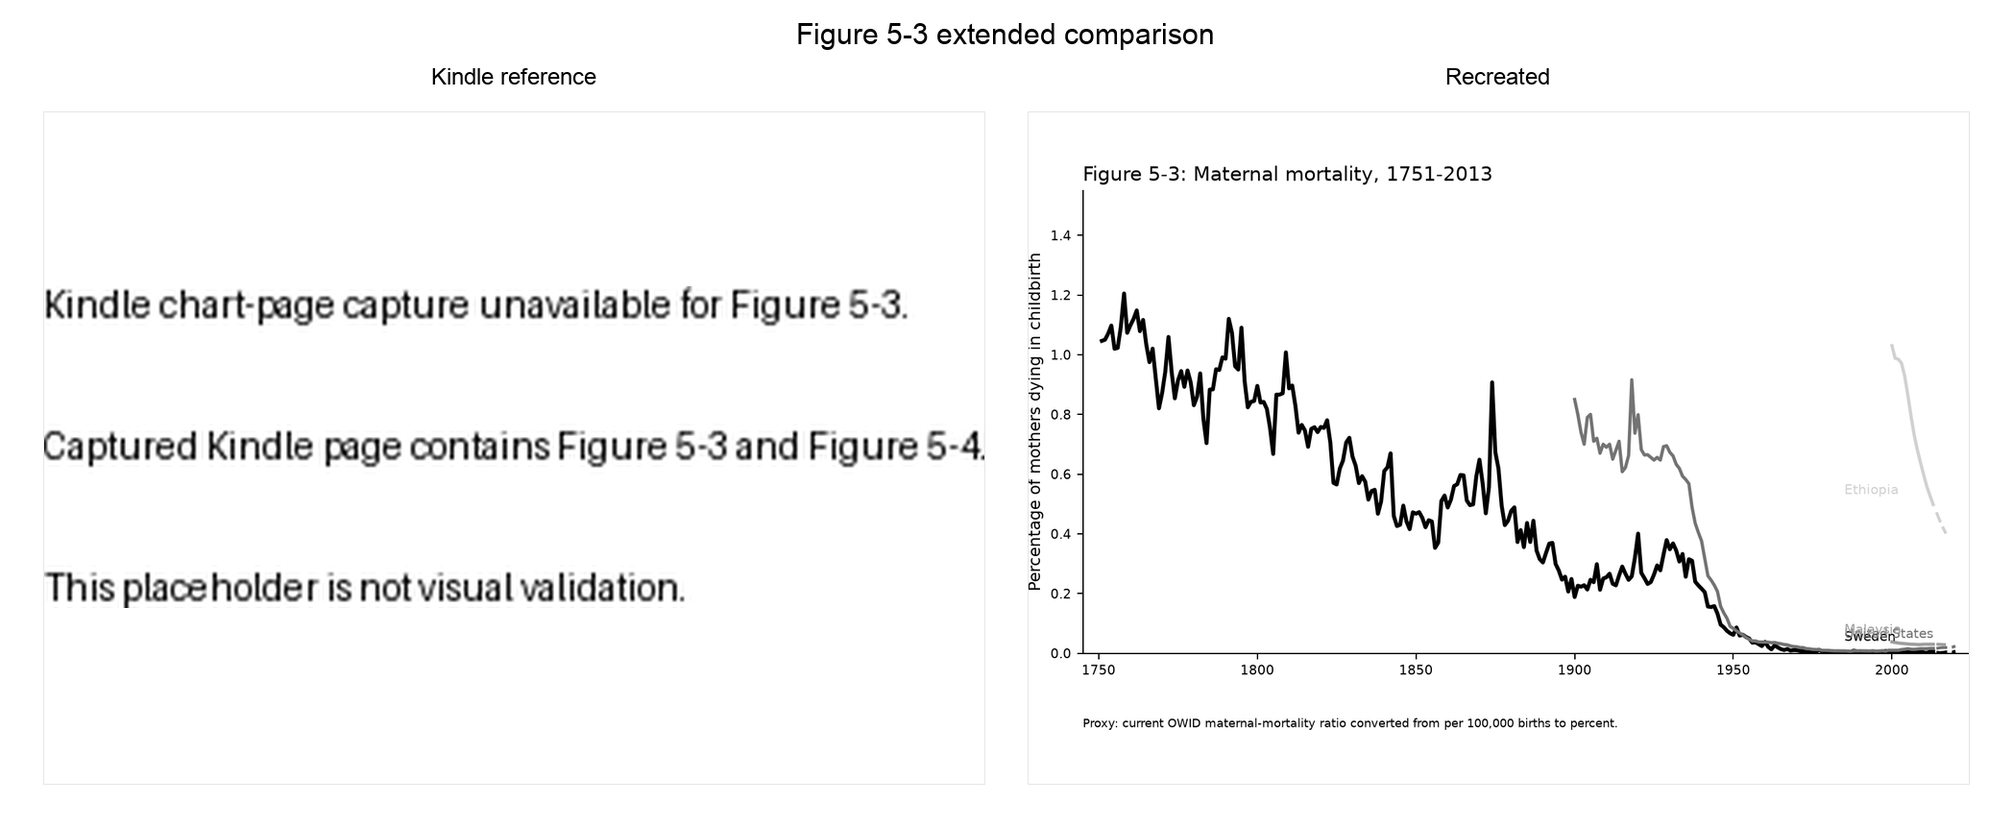
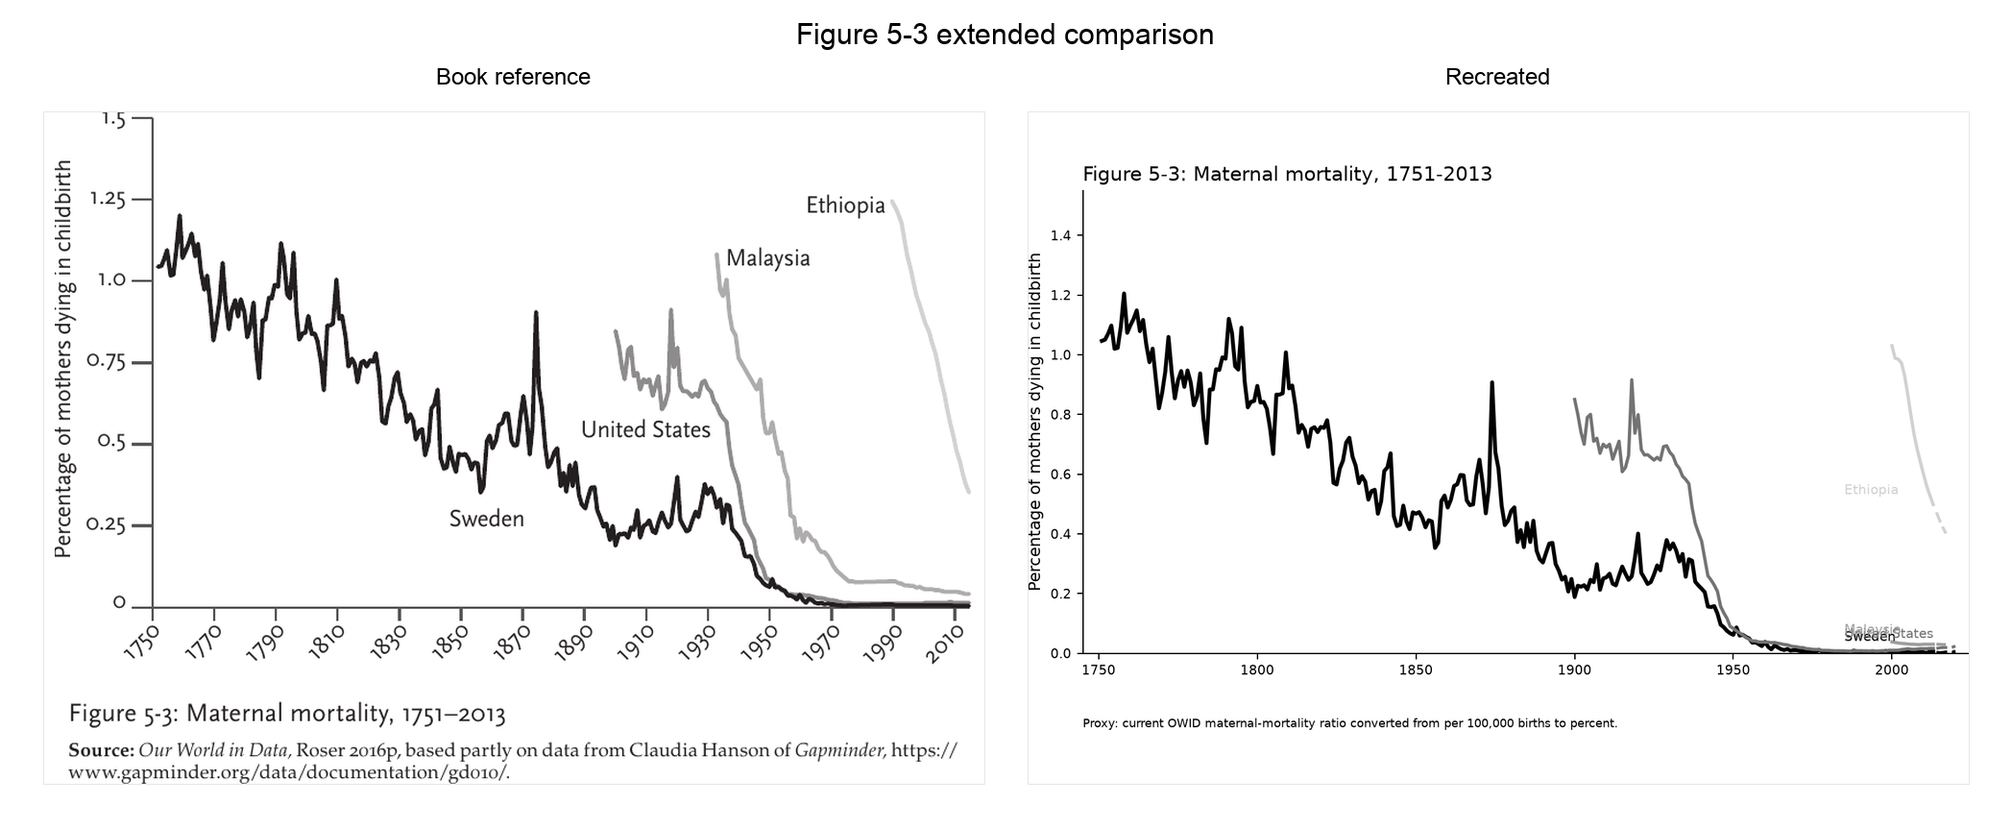
Refresh Track A side-by-side references from supplemental PDF

diff --git a/scripts/reconstruct_track_a_health_nutrition.py b/scripts/reconstruct_track_a_health_nutrition.py
@@ -15,6 +15,7 @@ from PIL import Image, ImageChops, ImageDraw, ImageFont, ImageOps
 ROOT = Path(__file__).resolve().parents[1]
 OWID = Path("/Users/alfred/Documents/MIsc/enlightenment_now_poc/data/repositories/owid-datasets/datasets")
 TMP_KINDLE = ROOT / "tmp/track_a_kindle"
+TMP_PDF = ROOT / "tmp/track_a_pdf_pages"
 TODAY = date.today().isoformat()
 
 
@@ -118,7 +119,7 @@ def side_by_side(reference: Path, recreated: Path, output: Path, title: str) -> 
     left_x = margin
     right_x = margin + panel_w + gap
     label_y = title_h + 8
-    draw.text((left_x + panel_w // 2, label_y), "Kindle reference", fill="black", anchor="ma", font=label_font)
+    draw.text((left_x + panel_w // 2, label_y), "Book reference", fill="black", anchor="ma", font=label_font)
     draw.text((right_x + panel_w // 2, label_y), "Recreated", fill="black", anchor="ma", font=label_font)
     paste_fit(ref, left_x, title_h + header_h)
     paste_fit(rec, right_x, title_h + header_h)
@@ -130,71 +131,76 @@ FIGURES = {
     "5-3": {
         "title": "Maternal mortality, 1751-2013",
         "chapter": "5",
-        "book_page": "Kindle page 57 search result",
+        "book_page": "Supplemental PDF page 3; Kindle page previously inspected",
         "claim": "Maternal mortality declined sharply in representative countries.",
         "citation": "Our World in Data, Roser 2016p, based partly on data from Claudia Hanson of Gapminder.",
         "source_status": "updated_equivalent",
         "status": "partial_match",
         "confidence": 0.70,
         "validation": "acceptable",
-        "kindle": TMP_KINDLE / "page_5_3.png",
-        "crop": (285, 360, 946, 830),
+        "reference_source": "Supplemental PDF page 3 crop",
+        "kindle": TMP_PDF / "page-03.png",
+        "crop": (145, 835, 1000, 1535),
         "dataset": "Maternal Mortality Ratio (Gapminder (2010), WHO (2019) and OECD (2022))",
     },
     "5-4": {
         "title": "Life expectancy, UK, 1701-2013",
         "chapter": "5",
-        "book_page": "Kindle page 57 chart capture",
+        "book_page": "Supplemental PDF page 4; Kindle page previously inspected",
         "claim": "UK life expectancy improved at birth and across older ages.",
-        "citation": "Kindle chart inspected; full source line not fully visible in the captured page. Likely OWID/HMD-derived age-specific life expectancy source.",
+        "citation": "Our World in Data, Roser 2016n. Data before 1845 are for England and Wales and come from OECD Clio Infra, van Zanden et al. 2014. Data from 1845 on are for mid-decade years only, and come from the Human Mortality Database.",
         "source_status": "needs_targeted_source_recovery",
         "status": "needs_targeted_source_recovery",
         "confidence": 0.40,
         "validation": "poor",
-        "kindle": TMP_KINDLE / "page_5_3.png",
-        "crop": (975, 438, 1637, 865),
+        "reference_source": "Supplemental PDF page 4 crop",
+        "kindle": TMP_PDF / "page-04.png",
+        "crop": (110, 125, 1000, 820),
         "dataset": "partial HMD/OWID age-specific life-expectancy sources",
     },
     "6-1": {
         "title": "Childhood deaths from infectious disease, 2000-2013",
         "chapter": "6",
-        "book_page": "Kindle source not successfully captured during Track A",
+        "book_page": "Supplemental PDF page 4; Kindle chart page not captured during Track A",
         "claim": "Childhood deaths from major infectious diseases fell between 2000 and 2013.",
         "citation": "Child Health Epidemiology Reference Group of the World Health Organization; Liu et al. 2014, supplementary appendix.",
         "source_status": "blocked_external_source",
         "status": "blocked_external_source",
         "confidence": 0.30,
-        "validation": "blocked",
-        "kindle": None,
-        "crop": None,
+        "validation": "poor",
+        "reference_source": "Supplemental PDF page 4 crop",
+        "kindle": TMP_PDF / "page-04.png",
+        "crop": (60, 815, 1000, 1540),
         "dataset": "IHME 2017 causes of child mortality proxy; cited Liu et al. appendix not recovered",
     },
     "7-1": {
         "title": "Calories, 1700-2013",
         "chapter": "7",
-        "book_page": "Kindle page 70 search result",
+        "book_page": "Supplemental PDF page 5; Kindle page previously inspected",
         "claim": "Average calorie availability rose in developed and developing regions.",
         "citation": "United States, England, and France: Our World in Data, Roser 2016d, based on Fogel 2004. China, India, and World: FAO.",
         "source_status": "updated_equivalent",
         "status": "partial_match",
         "confidence": 0.76,
         "validation": "acceptable",
-        "kindle": TMP_KINDLE / "page_7_1.png",
-        "crop": (285, 147, 946, 592),
+        "reference_source": "Supplemental PDF page 5 crop",
+        "kindle": TMP_PDF / "page-05.png",
+        "crop": (135, 130, 1035, 780),
         "dataset": "Daily supply of calories per person (OWID based on UN FAO & historical sources)",
     },
     "7-2": {
         "title": "Childhood stunting, 1966-2014",
         "chapter": "7",
-        "book_page": "Kindle page 70 chart capture",
+        "book_page": "Supplemental PDF page 5; Kindle page previously inspected",
         "claim": "Childhood stunting fell in several developing countries.",
         "citation": "Our World in Data, Roser 2016j, based on WHO Nutrition Landscape Information System.",
         "source_status": "partial_match",
         "status": "partial_match",
         "confidence": 0.55,
         "validation": "acceptable",
-        "kindle": TMP_KINDLE / "page_7_1.png",
-        "crop": (975, 147, 1637, 625),
+        "reference_source": "Supplemental PDF page 5 crop",
+        "kindle": TMP_PDF / "page-05.png",
+        "crop": (135, 845, 995, 1550),
         "dataset": "World Bank stunting prevalence proxy; exact OWID/WHO NLIS vintage not recovered",
     },
 }
@@ -333,7 +339,7 @@ def plot_6_1():
     ext_plot = b / "plots/extended/figure_6_1_extended_reconstruction.png"
     draw(book_plot)
     draw(ext_plot, True)
-    ref = crop_or_placeholder(fig_id, None, None, "Kindle search/navigation did not successfully capture the Figure 6-1 chart page in this time-boxed pass.")
+    ref = crop_or_placeholder(fig_id, FIGURES[fig_id]["kindle"], FIGURES[fig_id]["crop"], "Supplemental PDF supplies the Figure 6-1 chart reference.")
     side_by_side(ref, book_plot, b / "plots/comparisons/figure_6_1_book_period_comparison.png", "Figure 6-1 book-period comparison")
     side_by_side(ref, ext_plot, b / "plots/comparisons/figure_6_1_extended_comparison.png", "Figure 6-1 extended comparison")
 
@@ -484,7 +490,7 @@ def write_docs(fig_id: str):
         "## Search Queries Attempted\n"
         + "\n".join(f"- {q}" for q in searches)
         + "\n\n## Sources Investigated\n"
-        f"- Kindle: {'accepted for chart reference/source line' if info['kindle'] else 'source-line evidence only; chart capture unresolved'}.\n"
+        f"- Reference image: {info.get('reference_source', 'Kindle chart capture')} accepted for chart reference/source line.\n"
         f"- Dataset used: {info['dataset']}.\n"
         "- Local OWID mirror and current public data were used where available.\n\n"
         "## Remaining Uncertainties\n"
@@ -495,7 +501,7 @@ def write_docs(fig_id: str):
     )
     (b / "provenance/provenance.md").write_text(
         f"# Provenance: Figure {fig_id}\n\n"
-        f"Book figure -> Kindle evidence -> {info['dataset']} -> "
+        f"Book figure -> {info.get('reference_source', 'Kindle evidence')} -> {info['dataset']} -> "
         "`scripts/reconstruct_track_a_health_nutrition.py` -> generated plots.\n\n"
         f"Source note: {info['citation']}\n"
     )
@@ -503,7 +509,7 @@ def write_docs(fig_id: str):
         f"# Anomaly Review: Figure {fig_id}\n\n"
         "## Visible Differences\n"
         "- Styling, typography, label placement, and crop geometry are approximate.\n"
-        + ("- Kindle chart-page reference is missing; placeholder blocks visual validation.\n" if fig_id == "6-1" else "")
+        + ("- Supplemental PDF supplies the chart reference, but the cited Liu et al. appendix remains unrecovered.\n" if fig_id == "6-1" else "")
         + ("- Reconstruction is visibly incomplete because only age-at-birth, age-15, and age-45 proxy series were recovered.\n" if fig_id == "5-4" else "")
         + "\n## Cause Assessment\n"
         f"- Current status: `{info['status']}`.\n"

diff --git a/PROJECT_STATE.md b/PROJECT_STATE.md
@@ -1,6 +1,6 @@
 # Project State
 
-Last update: 2026-06-30 02:55 America/Los_Angeles
+Last update: 2026-06-30 03:25 America/Los_Angeles
 
 Project version: `1.5-track-a-health-nutrition-branch`
 
@@ -49,11 +49,11 @@ this file are all updated. Only then may Codex begin another figure.
 | --- | --- | --- | --- | --- | --- |
 | 5-1 | Life expectancy, 1771-2015 | Reviewed book-period reconstruction; no comparable extension plotted | `verified_reproduction` | High | OWID/Roser 2016n-style historical dataset matches the Kindle source line; the extended artifact is explicitly labeled as no comparable regional extension. |
 | 5-2 | Child mortality, 1751-2013 | Source recovery and discrepancy analysis | `partial_match` | Medium | Remediated to use the current OWID selected child-mortality series in percent units; exact Roser 2016a UN/HMD assembled source remains unresolved. |
-| 5-3 | Maternal mortality, 1751-2013 | Track A time-boxed reconstruction | `partial_match` | Medium | Kindle chart/source captured; current OWID maternal-mortality successor data reproduce the broad concept but exact Roser 2016p vintage is not recovered. |
-| 5-4 | Life expectancy, UK, 1701-2013 | Track A targeted source recovery needed | `needs_targeted_source_recovery` | Low | Kindle chart captured, but exact age-specific HMD/OWID series for ages 1, 5, 10, 20, 30, 40, 50, 60, and 70 were not recovered. |
-| 6-1 | Childhood deaths from infectious disease, 2000-2013 | Track A evidence/source blocked | `blocked_external_source` | Low | Kindle chart-page capture failed during the time-box; IHME proxy generated but cited CHERG/WHO Liu et al. appendix remains unrecovered. |
-| 7-1 | Calories, 1700-2013 | Track A time-boxed reconstruction | `partial_match` | Medium | Kindle chart/source captured; OWID/FAO historical calories dataset gives a plausible reconstruction but exact book-era source styling/vintage is unresolved. |
-| 7-2 | Childhood stunting, 1966-2014 | Track A time-boxed reconstruction | `partial_match` | Medium-low | Kindle chart/source captured; World Bank stunting prevalence proxy used because exact OWID/Roser 2016j WHO NLIS vintage was not recovered. |
+| 5-3 | Maternal mortality, 1751-2013 | Track A time-boxed reconstruction | `partial_match` | Medium | Book reference refreshed from supplemental PDF page 3; current OWID maternal-mortality successor data reproduce the broad concept but exact Roser 2016p vintage is not recovered. |
+| 5-4 | Life expectancy, UK, 1701-2013 | Track A targeted source recovery needed | `needs_targeted_source_recovery` | Low | Book reference/source refreshed from supplemental PDF page 4, but exact age-specific HMD/OWID series for ages 1, 5, 10, 20, 30, 40, 50, 60, and 70 were not recovered. |
+| 6-1 | Childhood deaths from infectious disease, 2000-2013 | Track A source blocked | `blocked_external_source` | Low | Book reference/source refreshed from supplemental PDF page 4; IHME proxy generated but cited CHERG/WHO Liu et al. appendix remains unrecovered. |
+| 7-1 | Calories, 1700-2013 | Track A time-boxed reconstruction | `partial_match` | Medium | Book reference/source refreshed from supplemental PDF page 5; OWID/FAO historical calories dataset gives a plausible reconstruction but exact book-era source styling/vintage is unresolved. |
+| 7-2 | Childhood stunting, 1966-2014 | Track A time-boxed reconstruction | `partial_match` | Medium-low | Book reference/source refreshed from supplemental PDF page 5; World Bank stunting prevalence proxy used because exact OWID/Roser 2016j WHO NLIS vintage was not recovered. |
 | 8-4 | Extreme poverty (proportion), 1820-2015 | Reviewed book-period reconstruction; no comparable extension plotted | `verified_reproduction` | High | OWID historical Bourguignon & Morrison/PovcalNet dataset matches the Kindle source chain; comparison layout was remediated and no comparable World successor extension is plotted. |
 | 10-5 | Oil spills, 1970-2016 | Source recovery and discrepancy analysis | `partial_match` | Medium | Do not label as verified until the exact historical oil-shipped-by-sea series or an exact archival copy is recovered. |
 | 10-6 | Protected areas, 1990-2014 | Verified book-period reconstruction with successor-series extension | `verified_reproduction` | High | Book-period reconstruction accepted; bibliographic cleanup and publication packaging remain. |

diff --git a/reports/track_a_health_nutrition_summary.md b/reports/track_a_health_nutrition_summary.md
@@ -17,7 +17,9 @@ Figures processed:
 This was a time-boxed five-figure batch. It produced reproducible figure
 directories, raw and clean data files, book-period and extended plots,
 side-by-side comparison images, source logs, provenance files, anomaly reviews,
-lineage files, review checklists, metadata, and checksums.
+lineage files, review checklists, metadata, and checksums. A supplemental PDF
+reference was later used to refresh the book-reference crops for all five
+figures, including Figure 6-1.
 
 No Track A figure was promoted to `verified_reproduction`.
 
@@ -27,7 +29,8 @@ No Track A figure was promoted to `verified_reproduction`.
 
 Status: `partial_match`
 
-Kindle evidence: chart page and source line captured.
+Book evidence: supplemental PDF page 3 crop; Kindle page had previously been
+inspected.
 
 Dataset used: current OWID maternal mortality ratio dataset, including
 Gapminder/World Bank/WHO/OECD successor columns.
@@ -41,8 +44,7 @@ partial match.
 
 Status: `needs_targeted_source_recovery`
 
-Kindle evidence: chart page captured, but full source line was not visible in
-the screenshot.
+Book evidence: supplemental PDF page 4 crop with full source line.
 
 Dataset used: partial OWID/HMD-derived age-specific life-expectancy sources.
 
@@ -54,19 +56,23 @@ series. This needs targeted recovery of the exact HMD/OWID age-specific data.
 
 Status: `blocked_external_source`
 
-Kindle evidence: chart-page capture failed during the time-box.
+Book evidence: supplemental PDF page 4 crop with full source line. Kindle
+navigation had failed during the original time-box, but the PDF reference now
+allows visual side-by-side review.
 
 Dataset used: IHME 2017 causes of child mortality proxy.
 
-Result: generated only as a blocked proxy artifact. The cited CHERG/WHO Liu et
-al. 2014 supplementary appendix and the Kindle chart reference are still
-required before visual validation can begin.
+Result: side-by-side comparison now uses the book figure reference, but the
+reconstruction remains blocked as a source-data reproduction because the cited
+CHERG/WHO Liu et al. 2014 supplementary appendix has not been recovered. The
+current plot is an IHME proxy and visibly does not match the book's line chart.
 
 ### Figure 7-1
 
 Status: `partial_match`
 
-Kindle evidence: chart page and source line captured.
+Book evidence: supplemental PDF page 5 crop; Kindle page had previously been
+inspected.
 
 Dataset used: OWID daily calorie supply dataset based on FAO and historical
 sources.
@@ -79,7 +85,8 @@ partial match.
 
 Status: `partial_match`
 
-Kindle evidence: chart page and source line captured.
+Book evidence: supplemental PDF page 5 crop; Kindle page had previously been
+inspected.
 
 Dataset used: World Bank stunting prevalence indicator
 `SH.STA.STNT.ZS` as a proxy.
@@ -92,13 +99,14 @@ the book.
 
 Critical issues found:
 
-- Figure 6-1 is missing a Kindle chart-page reference.
+- None remain after the supplemental PDF reference refresh.
 
 Major issues found:
 
 - Figure 5-4 is visibly incomplete because the exact age-specific source series
   were not recovered.
-- Figure 6-1 uses a proxy source and a placeholder reference.
+- Figure 6-1 uses a proxy source and remains a major visible mismatch to the
+  book line chart.
 - Figures 5-3, 7-1, and 7-2 use updated or proxy source vintages rather than
   proven exact book-era datasets.
 
@@ -111,12 +119,17 @@ Issues automatically corrected:
 
 - Corrected Figure 6-1 proxy values after noticing the first reconstruction had
   multiplied already-percent IHME values by 100.
+- Replaced the Figure 6-1 placeholder reference with the supplied supplemental
+  PDF crop and regenerated both side-by-side comparisons.
+- Refreshed all five Track A book-reference crops from the supplemental PDF for
+  consistent side-by-side review.
 
 Issues remaining:
 
 - Exact source-vintage recovery is still needed for all five figures before any
   can be considered verified.
-- Figure 6-1 needs the Kindle chart capture and cited external appendix.
+- Figure 6-1 still needs the cited external appendix or an archival equivalent;
+  the book-reference image is now available from the supplemental PDF.
 
 Publication decision:
 

diff --git a/figures/5-4/source_logs/source_log.md b/figures/5-4/source_logs/source_log.md
@@ -2,17 +2,17 @@
 
 Figure title: Life expectancy, UK, 1701-2013
 
-Original book citation: Kindle chart inspected; full source line not fully visible in the captured page. Likely OWID/HMD-derived age-specific life expectancy source.
+Original book citation: Our World in Data, Roser 2016n. Data before 1845 are for England and Wales and come from OECD Clio Infra, van Zanden et al. 2014. Data from 1845 on are for mid-decade years only, and come from the Human Mortality Database.
 
 ## Search Queries Attempted
 - Kindle search/open for "Figure 5-4" or title
 - "Life expectancy, UK, 1701-2013" source data
-- "Kindle chart inspected; full source line not fully visible in the captured page. Likely OWID/HMD-derived age-specific life expectancy source."
+- "Our World in Data, Roser 2016n. Data before 1845 are for England and Wales and come from OECD Clio Infra, van Zanden et al. 2014. Data from 1845 on are for mid-decade years only, and come from the Human Mortality Database."
 - local OWID datasets mirror
 - current public successor data where exact book vintage was unavailable
 
 ## Sources Investigated
-- Kindle: accepted for chart reference/source line.
+- Reference image: Supplemental PDF page 4 crop accepted for chart reference/source line.
 - Dataset used: partial HMD/OWID age-specific life-expectancy sources.
 - Local OWID mirror and current public data were used where available.
 

diff --git a/figures/5-4/provenance/provenance.md b/figures/5-4/provenance/provenance.md
@@ -1,5 +1,5 @@
 # Provenance: Figure 5-4
 
-Book figure -> Kindle evidence -> partial HMD/OWID age-specific life-expectancy sources -> `scripts/reconstruct_track_a_health_nutrition.py` -> generated plots.
+Book figure -> Supplemental PDF page 4 crop -> partial HMD/OWID age-specific life-expectancy sources -> `scripts/reconstruct_track_a_health_nutrition.py` -> generated plots.
 
-Source note: Kindle chart inspected; full source line not fully visible in the captured page. Likely OWID/HMD-derived age-specific life expectancy source.
+Source note: Our World in Data, Roser 2016n. Data before 1845 are for England and Wales and come from OECD Clio Infra, van Zanden et al. 2014. Data from 1845 on are for mid-decade years only, and come from the Human Mortality Database.

diff --git a/figures/5-4/search_iterations/search_iterations.md b/figures/5-4/search_iterations/search_iterations.md
@@ -2,6 +2,6 @@
 
 - Kindle search/open for "Figure 5-4" or title
 - "Life expectancy, UK, 1701-2013" source data
-- "Kindle chart inspected; full source line not fully visible in the captured page. Likely OWID/HMD-derived age-specific life expectancy source."
+- "Our World in Data, Roser 2016n. Data before 1845 are for England and Wales and come from OECD Clio Infra, van Zanden et al. 2014. Data from 1845 on are for mid-decade years only, and come from the Human Mortality Database."
 - local OWID datasets mirror
 - current public successor data where exact book vintage was unavailable

diff --git a/figures/6-1/provenance/provenance.md b/figures/6-1/provenance/provenance.md
@@ -1,5 +1,5 @@
 # Provenance: Figure 6-1
 
-Book figure -> Kindle evidence -> IHME 2017 causes of child mortality proxy; cited Liu et al. appendix not recovered -> `scripts/reconstruct_track_a_health_nutrition.py` -> generated plots.
+Book figure -> Supplemental PDF page 4 crop -> IHME 2017 causes of child mortality proxy; cited Liu et al. appendix not recovered -> `scripts/reconstruct_track_a_health_nutrition.py` -> generated plots.
 
 Source note: Child Health Epidemiology Reference Group of the World Health Organization; Liu et al. 2014, supplementary appendix.

diff --git a/figures/7-1/provenance/provenance.md b/figures/7-1/provenance/provenance.md
@@ -1,5 +1,5 @@
 # Provenance: Figure 7-1
 
-Book figure -> Kindle evidence -> Daily supply of calories per person (OWID based on UN FAO & historical sources) -> `scripts/reconstruct_track_a_health_nutrition.py` -> generated plots.
+Book figure -> Supplemental PDF page 5 crop -> Daily supply of calories per person (OWID based on UN FAO & historical sources) -> `scripts/reconstruct_track_a_health_nutrition.py` -> generated plots.
 
 Source note: United States, England, and France: Our World in Data, Roser 2016d, based on Fogel 2004. China, India, and World: FAO.

diff --git a/figures/7-2/provenance/provenance.md b/figures/7-2/provenance/provenance.md
@@ -1,5 +1,5 @@
 # Provenance: Figure 7-2
 
-Book figure -> Kindle evidence -> World Bank stunting prevalence proxy; exact OWID/WHO NLIS vintage not recovered -> `scripts/reconstruct_track_a_health_nutrition.py` -> generated plots.
+Book figure -> Supplemental PDF page 5 crop -> World Bank stunting prevalence proxy; exact OWID/WHO NLIS vintage not recovered -> `scripts/reconstruct_track_a_health_nutrition.py` -> generated plots.
 
 Source note: Our World in Data, Roser 2016j, based on WHO Nutrition Landscape Information System.

diff --git a/figures/6-1/source_logs/source_log.md b/figures/6-1/source_logs/source_log.md
@@ -12,7 +12,7 @@ Original book citation: Child Health Epidemiology Reference Group of the World H
 - current public successor data where exact book vintage was unavailable
 
 ## Sources Investigated
-- Kindle: source-line evidence only; chart capture unresolved.
+- Reference image: Supplemental PDF page 4 crop accepted for chart reference/source line.
 - Dataset used: IHME 2017 causes of child mortality proxy; cited Liu et al. appendix not recovered.
 - Local OWID mirror and current public data were used where available.
 

diff --git a/figures/5-3/provenance/provenance.md b/figures/5-3/provenance/provenance.md
@@ -1,5 +1,5 @@
 # Provenance: Figure 5-3
 
-Book figure -> Kindle evidence -> Maternal Mortality Ratio (Gapminder (2010), WHO (2019) and OECD (2022)) -> `scripts/reconstruct_track_a_health_nutrition.py` -> generated plots.
+Book figure -> Supplemental PDF page 3 crop -> Maternal Mortality Ratio (Gapminder (2010), WHO (2019) and OECD (2022)) -> `scripts/reconstruct_track_a_health_nutrition.py` -> generated plots.
 
 Source note: Our World in Data, Roser 2016p, based partly on data from Claudia Hanson of Gapminder.

diff --git a/figures/7-1/source_logs/source_log.md b/figures/7-1/source_logs/source_log.md
@@ -12,7 +12,7 @@ Original book citation: United States, England, and France: Our World in Data, R
 - current public successor data where exact book vintage was unavailable
 
 ## Sources Investigated
-- Kindle: accepted for chart reference/source line.
+- Reference image: Supplemental PDF page 5 crop accepted for chart reference/source line.
 - Dataset used: Daily supply of calories per person (OWID based on UN FAO & historical sources).
 - Local OWID mirror and current public data were used where available.
 
